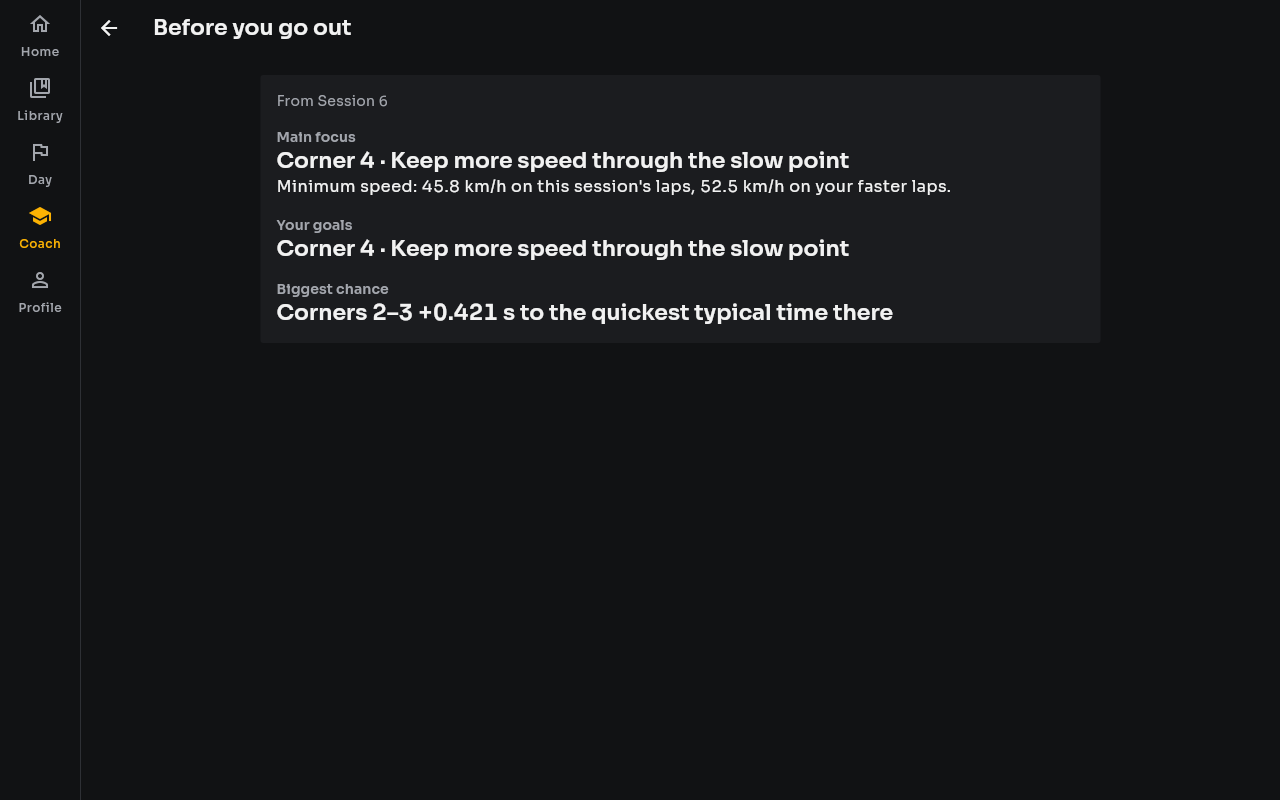
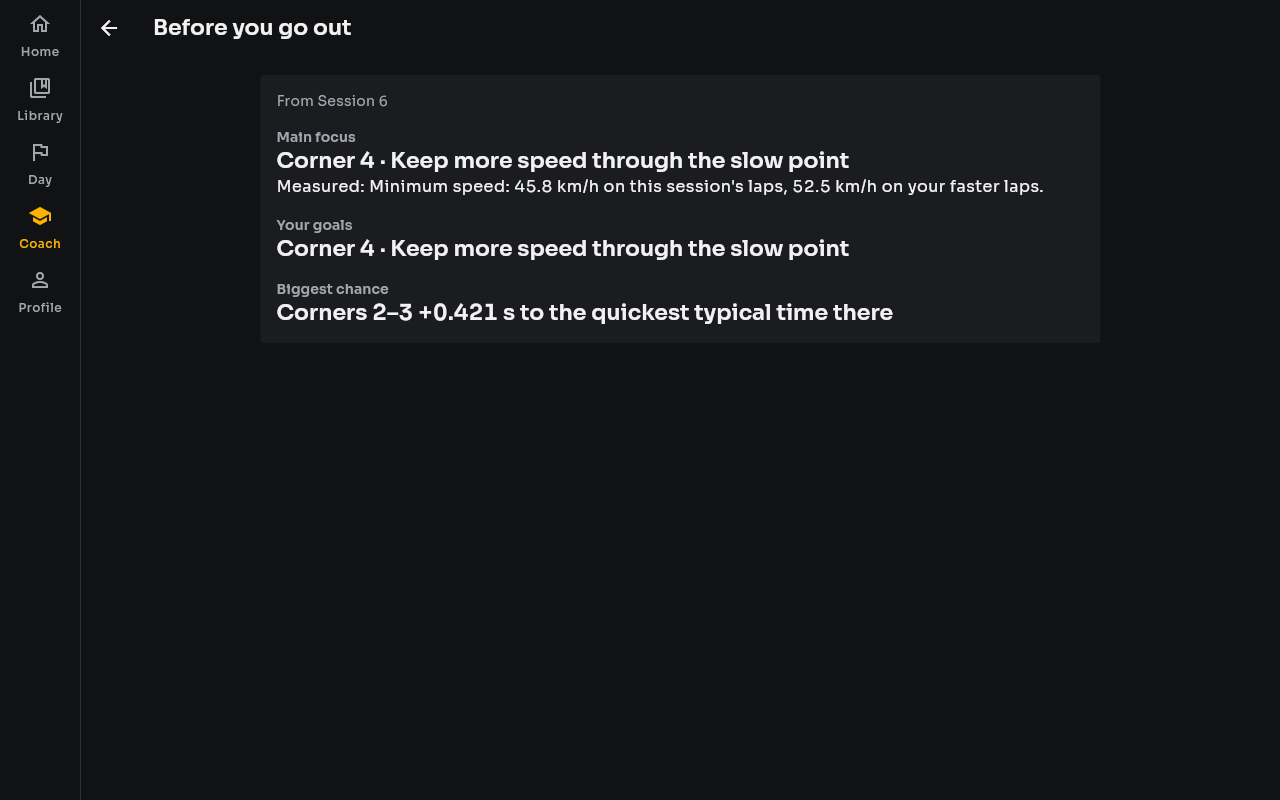
Before you go out: review fixes (FET-232)
Read-only goals and a session without laps say why; the measured
sentence is labelled and a hidden speed says why; Cmd/Ctrl+S saves from
the page; tests cover each state.

Claude-Session: https://claude.ai/code/session_014pCmgHGRka3SUZbzm8LTeW

Changed region(s): [[0.2188, 0.2188, 0.8125, 0.25]]

diff --git a/test/day/own_goals_test.dart b/test/day/own_goals_test.dart
@@ -3,8 +3,10 @@ import 'dart:io';
 import 'package:flutter/material.dart';
 import 'package:flutter_test/flutter_test.dart';
 import 'package:telemetry/day/day_results_controller.dart';
+import 'package:telemetry/day/briefing_card.dart';
 import 'package:telemetry/day/day_results_page.dart';
 import 'package:telemetry/import/import_runner.dart';
+import 'package:telemetry/l10n/app_localizations.dart';
 import 'package:telemetry/main.dart';
 import 'package:telemetry/units.dart';
 import 'package:telemetry_core/telemetry_core.dart';
@@ -542,14 +544,19 @@ void main() {
     expect(find.text('From Session 2'), findsOneWidget);
     expect(
       line(tester, 'briefingFocus'),
-      'Main focus | ${corner.name} · Reduce coasting | Longest coast: '
+      'Main focus | ${corner.name} · Reduce coasting | Measured: Longest coast: '
       '1.2\u00a0s on this session\'s laps, 0.6\u00a0s on your faster lap.',
     );
     expect(
       line(tester, 'briefingGoals'),
       'Your goals | None set: add them under Your goals for the next session',
     );
-    expect(line(tester, 'briefingChance'), startsWith('Biggest chance | '));
+    // The summary's Biggest gap left, word for word.
+    await tester.pageBack();
+    await tester.pumpAndSettle();
+    final gap = line(tester, 'sessionSummaryGap').split(' | ').last;
+    await openBriefing(tester);
+    expect(line(tester, 'briefingChance'), 'Biggest chance | $gap');
     await tester.pageBack();
     await tester.pumpAndSettle();
 
@@ -564,6 +571,143 @@ void main() {
       line(tester, 'briefingGoals'),
       'Your goals | ${corner.name} · Reduce coasting',
     );
+  });
+
+  group('each briefing line says why when it cannot be filled', () {
+    late DayResultsController controller;
+
+    Future<void> card(
+      WidgetTester tester, {
+      String? runId,
+      DayTheoreticalBestState? sectionsState = DayTheoreticalBestState.ready,
+      bool coachLoading = false,
+      String coachError = '',
+      DayCoach? coach,
+      bool keepCoach = true,
+      bool speedsConverted = false,
+      RunGoals? goals,
+    }) async {
+      final best = controller.theoreticalBest!;
+      await tester.pumpWidget(
+        // Not TelemetryApp: its navigator would keep the Day results page.
+        MaterialApp(
+          key: UniqueKey(),
+          locale: const Locale('en'),
+          localizationsDelegates: AppLocalizations.localizationsDelegates,
+          supportedLocales: AppLocalizations.supportedLocales,
+          home: Scaffold(
+            body: ListView(
+              children: [
+                BriefingCard(
+                  runId: runId ?? controller.latestRunId,
+                  session: controller.latestRunName,
+                  progression: controller.progression,
+                  sectionsState: sectionsState,
+                  sections: best.sectionProgression([
+                    for (final run in controller.progression.runs) run.run,
+                  ]),
+                  coach: keepCoach ? (coach ?? controller.coach) : null,
+                  coachLoading: coachLoading,
+                  coachError: coachError,
+                  speedsConverted: speedsConverted,
+                  goals: goals ?? RunGoals(),
+                ),
+              ],
+            ),
+          ),
+        ),
+      );
+      await tester.pumpAndSettle();
+    }
+
+    String value(WidgetTester tester, String key) =>
+        line(tester, key).split(' | ')[1];
+
+    testWidgets('while working, and without a theoretical best', (
+      tester,
+    ) async {
+      controller = await show(tester);
+      await card(tester, sectionsState: null);
+      expect(value(tester, 'briefingFocus'), 'Working…');
+      expect(value(tester, 'briefingChance'), 'Working…');
+      await card(tester, coachLoading: true);
+      expect(value(tester, 'briefingFocus'), 'Working…');
+      await card(tester, sectionsState: DayTheoreticalBestState.unavailable);
+      expect(
+        value(tester, 'briefingFocus'),
+        isNot(anyOf('Working…', contains('Reduce coasting'))),
+      );
+      expect(value(tester, 'briefingChance'), value(tester, 'briefingFocus'));
+    });
+
+    testWidgets('a coach for an older session is not shown', (tester) async {
+      controller = await show(tester);
+      final older = controller.progression.runs.first.run.id;
+      expect(older, isNot(controller.latestRunId));
+      await card(tester, runId: older);
+      expect(value(tester, 'briefingFocus'), 'Working…');
+    });
+
+    testWidgets('a session without laps on the circuit shown', (tester) async {
+      controller = await show(tester);
+      await card(tester, runId: 'no such session', keepCoach: false);
+      expect(
+        value(tester, 'briefingChance'),
+        '${controller.latestRunName} has no timed laps on the circuit shown.',
+      );
+    });
+
+    testWidgets('goals stored in another form are kept, and say so', (
+      tester,
+    ) async {
+      controller = await show(tester);
+      await card(tester, goals: RunGoals(unknownVersion: 'session-goals-v2'));
+      expect(
+        value(tester, 'briefingGoals'),
+        'Stored in a form this version of the app does not edit, so they '
+        'are not changed here.',
+      );
+    });
+
+    testWidgets('a speed that cannot be shown says why', (tester) async {
+      controller = await show(tester);
+      final coach = controller.coach!;
+      final finding = coach.plan.first.finding;
+      final speed = CoachFinding(
+        kind: CoachKind.lowMinimumSpeed,
+        segmentId: finding.segmentId,
+        segmentName: finding.segmentName,
+        confidence: 0.7,
+        affectedLaps: finding.affectedLaps,
+        evidence: [
+          CoachEvidence(
+            key: CoachMetric.minimumSpeed,
+            metric: 'Minimum speed',
+            observed: 45.8,
+            reference: 52.5,
+            unit: 'km/h',
+            referenceLaps: finding.evidence.first.referenceLaps,
+            detail: '',
+          ),
+        ],
+      );
+      await card(
+        tester,
+        coach: DayCoach(
+          runId: coach.runId,
+          findings: [speed],
+          plan: [CoachItem(speed)],
+          reason: CoachReason.ready,
+          speedsConverted: true,
+        ),
+        speedsConverted: true,
+      );
+      final focus = line(tester, 'briefingFocus');
+      expect(focus, contains('Measured: '));
+      expect(focus, contains('—'));
+      expect(focus, isNot(contains('45.8')));
+      expect(focus, contains('Speeds are not shown'));
+    });
   });
 
   testWidgets('the briefing follows the day while it is open', (tester) async {

diff --git a/lib/day/briefing_card.dart b/lib/day/briefing_card.dart
@@ -77,14 +77,16 @@ class BriefingCard extends StatelessWidget {
       focus = l10n.summaryCoachFailed;
     } else if (!coached) {
       focus = l10n.summaryWorking;
-    } else if (changes.isNotEmpty) {
-      focus = _title(l10n, changes.first);
-      // A speed is left out when the speeds cannot be shown.
-      measured = speedUnit == null && _hasSpeed(changes.first)
-          ? null
-          : l10n.coachMeasured(changes.first, speedUnit);
-    } else if (keep != null) {
-      focus = _title(l10n, keep);
+    } else if ((changes.isNotEmpty ? changes.first : keep) case final item?) {
+      focus = _title(l10n, item);
+      // Labelled apart, as on the Next session card; a speed that cannot
+      // be shown reads "—" there too, and says why.
+      measured =
+          '${l10n.coachMeasuredLabel}: '
+          '${l10n.coachMeasured(item, speedUnit)}';
+      if (speedUnit == null && _hasSpeed(item)) {
+        measured = '$measured\n${l10n.coachSpeedHidden}';
+      }
     } else {
       focus = l10n.coachReason(coach.reason, l10n.session(session));
     }
@@ -100,7 +102,9 @@ class BriefingCard extends StatelessWidget {
       chance = l10n.summaryWorking;
     } else if (!ready) {
       chance = l10n.summarySegmentsUnavailable;
-    } else if (summary == null || summary.segmentsTimed == 0) {
+    } else if (summary == null) {
+      chance = l10n.summaryNotShown(l10n.session(session));
+    } else if (summary.segmentsTimed == 0) {
       chance = l10n.summaryGapNeedsLaps;
     } else if (summary.sessionsTimed < 2) {
       chance = l10n.summaryOnlySession;
@@ -168,7 +172,10 @@ class BriefingCard extends StatelessWidget {
               'briefingGoals',
               l10n.briefingGoals,
               goals.isEmpty
-                  ? l10n.briefingNoGoals
+                  // Goals this version does not read are still kept.
+                  ? (goals.readOnly
+                        ? l10n.ownGoalsReadOnly
+                        : l10n.briefingNoGoals)
                   : [
                       for (final goal in goals.goals)
                         l10n.coachItemTitle(
@@ -190,7 +197,9 @@ class BriefingCard extends StatelessWidget {
         l10n.coachKind(finding.kind),
       );
 
-  static bool _hasSpeed(CoachFinding finding) => finding.evidence.any(
-    (evidence) => evidence.unit == 'km/h' || evidence.unit == 'mph',
-  );
+  /// Whether the measured sentence ([AppLocalizations.coachMeasured],
+  /// which reads the first evidence) holds a speed.
+  static bool _hasSpeed(CoachFinding finding) =>
+      finding.evidence.first.unit == 'km/h' ||
+      finding.evidence.first.unit == 'mph';
 }

diff --git a/docs/user-guide/pages/day.html b/docs/user-guide/pages/day.html
@@ -56,12 +56,12 @@
 <h3 id="briefing">Before you go out</h3>
 <p><strong>Before you go out</strong>, beside the summary's title, opens a page to read at the car in large type, gathered from the session recorded last:</p>
 <figure>
-  <img src="assets/screens/briefing.png" alt="Before you go out, from Session 6: main focus, then once that feels settled, your goals, and the biggest chance" width="1280" height="800" loading="lazy">
+  <img src="assets/screens/briefing.png" alt="Before you go out, from Session 6: main focus Corner 4, keep more speed through the slow point, with the minimum speeds measured; your goals: the same; biggest chance Corners 2–3 +0.421 s to the quickest typical time there" width="1280" height="800" loading="lazy">
 </figure>
 <ul>
-  <li><strong>Main focus</strong>: the first change from the <a href="#next">Next session</a> card, with what was measured; when there is no change to work on, <strong>Keep</strong> and what to keep doing, or why the coach gave nothing.</li>
+  <li><strong>Main focus</strong>: the first change from the <a href="#next">Next session</a> card, with what was measured (a speed that cannot be shown reads — and the page says why); when there is no change to work on, <strong>Keep</strong> and what to keep doing, or why the coach gave nothing.</li>
   <li><strong>Once that feels settled</strong>: the card's second change, when there is one.</li>
-  <li><strong>Your goals</strong>: <a href="#goals">your own goals</a> for the next session, or that none are set.</li>
+  <li><strong>Your goals</strong>: <a href="#goals">your own goals</a> for the next session, or that none are set, or that they are stored in a form this version does not edit.</li>
   <li><strong>Biggest chance</strong>: the summary's <em>Biggest gap left</em>.</li>
 </ul>
 <p>Nothing is measured differently here; when a line cannot be filled it says why, as on the cards. The page follows the day while it is open.</p>

diff --git a/lib/day/day_results_page.dart b/lib/day/day_results_page.dart
@@ -1998,17 +1998,20 @@ class _DayResultsPageState extends State<DayResultsPage> {
   /// the car: it follows the day as it changes.
   void _openBriefing() => Navigator.of(context).push(
     MaterialPageRoute<void>(
-      builder: (context) => ListenableBuilder(
-        listenable: _controller,
-        builder: (context, _) => Scaffold(
-          appBar: AppBar(title: Text(context.l10n.briefingTitle)),
-          body: LayoutBuilder(
-            builder: (context, constraints) => ListView(
-              key: const ValueKey('briefingPage'),
-              padding: constraints.maxWidth > readableWidth
-                  ? readablePadding(constraints.maxWidth)
-                  : const EdgeInsets.all(16),
-              children: [_briefing()],
+      builder: (context) => saveShortcuts(
+        _saveFromShortcut,
+        ListenableBuilder(
+          listenable: _controller,
+          builder: (context, _) => Scaffold(
+            appBar: AppBar(title: Text(context.l10n.briefingTitle)),
+            body: LayoutBuilder(
+              builder: (context, constraints) => ListView(
+                key: const ValueKey('briefingPage'),
+                padding: constraints.maxWidth > readableWidth
+                    ? readablePadding(constraints.maxWidth)
+                    : const EdgeInsets.all(16),
+                children: [_briefing()],
+              ),
             ),
           ),
         ),

diff --git a/lib/l10n/app_localizations.dart b/lib/l10n/app_localizations.dart
@@ -8936,7 +8936,7 @@ abstract class AppLocalizations {
   /// **'These goals were set on other compared laps. Remove them to set new ones.'**
   String get ownGoalsOtherGroup;
 
-  /// Heading of the briefing card on the Coach place, read before the next session.
+  /// Button beside the session summary's title, and the title of the page it opens: a briefing read at the car before the next session.
   ///
   /// In en, this message translates to:
   /// **'Before you go out'**
